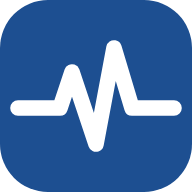
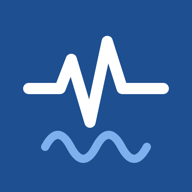
v3.18 · Pulido visual, fase 4: icono de la app, impresión de manuales, infografías y documentación
- Icono de la app: ECG y onda de ventilación sobre azul; PNG de 192 y 512 a sangre (maskable); la marca de la cabecera usa el mismo dibujo.
- Impresión de los manuales: se ocultan migas, índice, huecos de foto y «Siguiente»; teclas y mensajes con borde (antes quedaban en blanco sobre blanco sin fondos); saltos de página cuidados.
- Infografías: filete rojo bajo la cabecera y botones de 44 px en la barra (solo pantalla). Siguen en 1 hoja A4.
- Paneles: transición y estado pulsado en los botones del esquema, sin mover nada.
- CLAUDE.md y README.md: diseño «Panel de guardia», sprite de iconos, reglas de CSS e impresión.
- Comprobado: 9 casos, 33 rutas sin scroll horizontal a 390 px, consola limpia, infografías en 1 hoja y checklist en 2.

diff --git a/assets/css/app.css b/assets/css/app.css
@@ -165,7 +165,9 @@ kbd{font-family:var(--head);font-weight:700;font-size:.9em;background:var(--navy
 .fig text.sm{font-size:12px;font-weight:600;fill:var(--ink2)}
 .fig text.pd{fill:var(--red);font-size:16px}
 .dot{display:inline-block;width:12px;height:12px;border-radius:50%;border:1.5px solid var(--ink);vertical-align:-1px;margin-right:5px}
-.manual h3{margin-top:16px}
+.manual h3{margin-top:22px}
+.card.manual>h3:first-child{margin-top:0}
+.card.manual li{margin:6px 0}
 .cl{white-space:nowrap}
 .photo{display:flex;align-items:center;justify-content:center;gap:10px;border:1.5px dashed var(--muted);border-radius:12px;padding:14px;color:var(--muted);font-size:14px;line-height:1.35;margin:12px 0;background:var(--surface)}
 .photo .ic{width:24px;height:24px}
@@ -182,7 +184,10 @@ p.pill{display:block;width:fit-content;max-width:100%;font-family:Barlow,system-
 .panelsvg .hot{cursor:pointer}
 .a4{position:relative;width:100%;aspect-ratio:210/297;overflow:hidden;border-radius:6px;background:#fff}
 .a4 iframe{position:absolute;top:0;left:0;width:794px;height:1123px;border:0;transform-origin:0 0}
-.panelsvg{color:var(--muted)}
+.panelsvg{color:var(--muted);text-rendering:geometricPrecision}
+.panelsvg .hs{transition:stroke .12s,stroke-width .12s}
+.panelsvg .hot:active .hs{stroke:var(--orange);stroke-width:5}
+.pscroll{border-radius:8px}
 .panelsvg .hot:hover .hs,.panelsvg .hot.sel .hs,.panelsvg .hot:focus-visible .hs{stroke:var(--orange);stroke-width:5}
 .panelsvg .hot:focus{outline:none}
 .pscroll{overflow-x:auto;-webkit-overflow-scrolling:touch}
@@ -346,7 +351,7 @@ p.pill{display:block;width:fit-content;max-width:100%;font-family:Barlow,system-
 .embed{position:relative;padding-top:56.25%;border-radius:10px;overflow:hidden;background:#000;margin:12px 0 0}
 .embed iframe{position:absolute;inset:0;width:100%;height:100%;border:0}
 
-footer{border-top:1px solid var(--line);margin-top:40px;padding:18px 16px 40px;color:var(--muted);font-size:14px}
+footer{border-top:1px solid var(--line);margin-top:40px;padding:18px 16px 40px;color:var(--muted);font-size:14px;line-height:1.45}
 footer .in{max-width:1180px;margin:0 auto}
 .offline{position:fixed;bottom:12px;left:50%;transform:translateX(-50%);background:var(--navy);color:#fff;padding:8px 14px;border-radius:10px;font-size:14px;z-index:40;display:none}
 /* Checklist */
@@ -370,7 +375,14 @@ details.help summary::before{content:'';flex:none;width:8px;height:8px;border-ri
 .ck2{display:grid;grid-template-columns:repeat(auto-fit,minmax(300px,1fr));gap:0 16px}
 @media (max-width:560px){.ckt{font-size:14px}.ckt .fx{width:38%}.ckt .n{width:30px}.cksheet{padding:12px}}
 @page{size:A4;margin:10mm 11mm}
-@media print{.top,.tabs,footer,.btn,.noprint,.offline,.cklink{display:none!important}body{background:#fff;font-size:10pt}.card{box-shadow:none}
+@media print{.top,.tabs,footer,.btn,.noprint,.offline,.cklink,.crumbs,.toc,.photo,.next{display:none!important}body{background:#fff;color:#000;font-size:10pt}.card{box-shadow:none}
+  /* sin fondos al imprimir: teclas y mensajes con borde, para que no queden en blanco sobre blanco */
+  kbd{background:none!important;color:#000!important;border:.25mm solid #000;padding:0 1.2mm}.msg{background:none!important;color:#000!important;border:.25mm solid #666;padding:0 1.2mm}
+  .manual h2{break-after:avoid;margin-top:5mm;padding-top:2mm}.manual h3{break-after:avoid}.manual tr,.manual li,.key,.fig{break-inside:avoid}
+  .manual table{box-shadow:none;border:.25mm solid #999;border-style:solid}.manual th,.manual td{border-bottom:.25mm solid #999}.manual th{color:#000}
+  .key{border:.25mm solid #999;border-left:1.2mm solid #666;background:none}.pill{border:.25mm solid #999;background:none;color:#000}
+  .info,.qres{position:static;box-shadow:none}a{color:#000}
+  .lead{font-size:11pt}.manual tr:first-child{break-after:avoid}.mod-n{color:#000}
   main{padding:0!important;max-width:none!important}.cksheet{border:0;padding:0}.cksheet h1{font-size:19pt;margin:0 0 3mm}.cksheet h2{font-size:14pt;margin:4mm 0 1.5mm;break-after:avoid}
   .ck2{display:block}.ckf{grid-template-columns:1fr 1fr;gap:2mm 6mm;font-size:10.5pt}
   .ckt{font-size:9.4pt;line-height:1.24}.ckt th,.ckt td{padding:1.1mm 2mm}.ckf.obs span{min-height:4.5em}.cksheet .src{font-size:8.4pt;margin:0 0 1.5mm}.cksheet .key{padding:1.5mm 3mm;margin:2mm 0;font-size:9pt}

diff --git a/assets/css/infografia.css b/assets/css/infografia.css
@@ -6,13 +6,15 @@
 :root{--ink:#0E1A2B;--muted:#4A5868;--teal:#1D4F91;--line:#C9D3DC}
 *{box-sizing:border-box}
 html,body{margin:0;background:#D9DEE3;color:var(--ink);font-family:Barlow,system-ui,sans-serif;-webkit-print-color-adjust:exact;print-color-adjust:exact}
-.bar{display:flex;gap:10px;justify-content:center;padding:10px}
-.bar button,.bar a{font:700 15px Barlow,sans-serif;border:0;border-radius:10px;padding:9px 16px;background:var(--teal);color:#fff;text-decoration:none;cursor:pointer}
+.bar{display:flex;flex-wrap:wrap;gap:10px;justify-content:center;padding:10px}
+.bar button,.bar a{display:inline-flex;align-items:center;justify-content:center;min-height:44px;font:700 16px Barlow,sans-serif;border:0;border-radius:12px;padding:9px 18px;background:var(--teal);color:#fff;text-decoration:none;cursor:pointer}
+.bar button:focus-visible,.bar a:focus-visible{outline:3px solid #D2401C;outline-offset:2px}
 .bar a{background:#fff;color:var(--teal);border:2px solid var(--teal)}
 .wrap{max-width:calc(100% - 12px);width:210mm;margin:0 auto 16px;overflow:hidden}
 .page{position:relative;width:210mm;height:297mm;margin:0;background:#fff;padding:8mm 7mm 7mm;display:flex;flex-direction:column;box-shadow:0 2px 12px rgba(0,0,0,.18);overflow:hidden}
 header h1{font:700 21pt/1 'Barlow Semi Condensed',Barlow,sans-serif;margin:0 0 1.5mm;color:var(--teal)}
-header p{margin:0 0 3mm;font-size:8.6pt;color:var(--muted)}
+header{border-bottom:.5mm solid #D2401C;margin-bottom:2.5mm}
+header p{margin:0 0 1.6mm;font-size:8.6pt;color:var(--muted)}
 .stage{flex:1;display:grid;grid-template-columns:49mm 1fr 49mm;gap:5mm;min-height:0}
 .col{display:flex;flex-direction:column;justify-content:space-around;gap:1.6mm}
 .mid{display:flex;align-items:center}

diff --git a/index.html b/index.html
@@ -49,7 +49,7 @@
  </defs>
 </svg>
 <header class="top"><div class="in">
-  <a class="brand" href="#/"><svg width="30" height="30" viewBox="0 0 32 32" aria-hidden="true"><rect width="32" height="32" rx="8" fill="#1D4F91"/><path d="M3 18h7l2-6 4 12 3-16 3 10h7" fill="none" stroke="#fff" stroke-width="2.6" stroke-linecap="round" stroke-linejoin="round"/></svg><span>LP12 · SAVe II+</span></a>
+  <a class="brand" href="#/"><svg width="32" height="32" viewBox="0 0 512 512" aria-hidden="true"><rect width="512" height="512" rx="112" fill="#1D4F91"/><path d="M76 236h84l30-78 50 168 46-216 40 126h110" fill="none" stroke="#fff" stroke-width="34" stroke-linecap="round" stroke-linejoin="round"/><path d="M120 392q34-64 68 0t68 0 68 0 68 0" fill="none" stroke="#7FB0EE" stroke-width="26" stroke-linecap="round" stroke-linejoin="round"/></svg><span>LP12 · SAVe II+</span></a>
   <nav class="nav" aria-label="Principal">
     <a href="#/" data-r="home"><svg class="ic"><use href="#i-home"/></svg><span class="full">Inicio</span><span class="short" aria-hidden="true">Inicio</span></a>
     <a href="#/m/lp12" data-r="lp12"><svg class="ic"><use href="#i-lp12"/></svg><span class="full">1 · LIFEPAK 12</span><span class="short" aria-hidden="true">LIFEPAK</span></a>

diff --git a/sw.js b/sw.js
@@ -1,5 +1,5 @@
 /* Caché para uso sin conexión. Sube VERSION al publicar cambios. */
-const VERSION='v3.17-2026-10-03';
+const VERSION='v3.18-2026-10-03';
 const CORE=['./','index.html','manifest.webmanifest','assets/css/app.css','assets/js/content.js','assets/js/panel.js','assets/js/cases.js','assets/js/sim.js','assets/js/app.js',
 'content/manual-lp12.html','content/manual-save.html','content/manual-integracion.html',
 'assets/fonts/barlow-latin-400-normal.woff2','assets/fonts/barlow-latin-400-italic.woff2','assets/fonts/barlow-latin-600-normal.woff2','assets/fonts/barlow-latin-700-normal.woff2','assets/fonts/barlow-semi-condensed-latin-600-normal.woff2','assets/fonts/barlow-semi-condensed-latin-700-normal.woff2',

diff --git a/CLAUDE.md b/CLAUDE.md
@@ -34,8 +34,8 @@ Contenido:
 ## Estructura
 
 ```
-index.html                   Shell: cabecera, navegación y carga de los scripts
-assets/css/app.css           Estilos (tokens en :root, modo oscuro). Paleta B elegida por el autor: azul marino #1D4F91 (primario, token --teal) y rojo #D2401C (acento, --orange). Sin logo de Bomberos UCV hasta confirmar el permiso
+index.html                   Shell: cabecera, navegación, sprite de iconos SVG propios (<symbol id="i-…">) y carga de los scripts
+assets/css/app.css           Estilos (tokens en :root, modo oscuro). Paleta B elegida por el autor: azul marino #1D4F91 (primario, token --teal) y rojo #D2401C (acento, --orange). Sin logo de Bomberos UCV hasta confirmar el permiso. Diseño «Panel de guardia» (ver más abajo)
 assets/js/content.js         MODS (módulos, enlaces de Loom), SAVE_HEIGHTS (alturas del SAVe), PANELS (panel interactivo), QUIZ, VIDEOS, PHOTOS
 assets/js/panel.js           drawPanel(): dibuja los esquemas SVG de PANELS (panel interactivo e infografías)
 assets/js/cases.js           CASES: los 9 casos (texto, opciones, check(S), react(ev,S,c), debrief)
@@ -68,11 +68,24 @@ Probar en local: `python3 -m http.server 8765` y abrir `http://localhost:8765`. 
 6. **Sin YouTube incrustado sin revisar:** en `VIDEOS`, `{t, yt:'ID', fuente}` solo para vídeos que el autor haya revisado. Mientras no los haya, se usan enlaces de búsqueda.
 7. Los enlaces de Loom van en `MODS[].loom.url` (enlace *share*).
 
+## Diseño «Panel de guardia» (elegido por el autor el 03-10-2026, v3.15-v3.18)
+
+- **Celular:** la navegación es una barra inferior fija con 7 iconos (`.nav` a menos de 760 px; su alto está en `--nav-h`, que también usan `main`, el pie, la ficha del panel y el resultado del test). En escritorio va arriba.
+- **Iconos:** nada de emoji en la interfaz. Se usan los símbolos del sprite de `index.html`: `<svg class="ic"><use href="#i-nombre"/></svg>` (en `sim.js`, con `IC('nombre')`). Para un icono nuevo, añadir un `<symbol>` monolínea de 24×24.
+- **Objetivos táctiles:** 44 px como mínimo. Excepción aceptada a 390 px: las flechas ▼▲ del LIFEPAK virtual (40 px de ancho) y los − + del SAVe virtual (37 px), para no mover la disposición real.
+- **Contraste:** AA medido en claro y oscuro para todos los pares de tokens. Si se toca un color, volver a medirlo.
+- **Orden del CSS:** las reglas `@media` de un componente van **después** de sus reglas base (un bloque del monitor estuvo sin aplicarse por ir antes).
+- **Impresión:** infografías en 1 hoja A4 cada una y checklist en 2. En `@media print`, las teclas (`kbd`) y los mensajes (`.msg`) van con borde y sin fondo.
+- **Textos de los huecos:** «Foto de … de su unidad: pendiente» y «Vídeo pendiente de publicar»; la ruta del archivo va en un comentario HTML.
+- **Icono de la app:** ECG y onda de ventilación sobre azul (`assets/img/icon.svg`; los PNG de 192 y 512 van a sangre y valen como *maskable*).
+- **Caché del navegador al probar en local:** `python3 -m http.server` deja recursos en caché; antes de comprobar, recargar con `fetch(url,{cache:'reload'})` o abrir con `?v=n`.
+
 ## Checklist antes de cada publicación
 
 - [ ] La consola no muestra errores en todas las rutas (`#/`, los 3 módulos con todas sus pestañas, `#/casos`, cada `#/caso/<id>` y `#/acerca`).
 - [ ] Los 9 casos se completan sin bloqueos.
 - [ ] Sin scroll horizontal a 390 px. El modo oscuro se lee bien.
+- [ ] Infografías en 1 hoja y checklist en 2 (PDF con Chrome sin interfaz).
 - [ ] `VERSION` de `sw.js` incrementada.
 - [ ] Si cambió contenido clínico, el autor lo ha revisado.
 
@@ -105,6 +118,7 @@ En la carpeta privada `~/Desktop/Formacion_Bomberos_UCV_LP12_SAVe/` hay 3 fotos 
 ## Estado (03-10-2026)
 
 - v3 publicada en GitHub Pages (https://hipolitogarciam.github.io/formacion-bomberos-ucv/):
+  - pulido visual «Panel de guardia» en 4 fases (v3.15-v3.18): navegación inferior, iconos SVG, tablas, simulador, icono de la app e impresión de manuales;
   - tratamiento de "ustedes", navegación con «Siguiente», paneles y simulador con la disposición real, infografías A4 en HTML, checklist de inicio de guardia, paleta B;
   - auditoría independiente (`AUDITORIA_v3.md`) con todos sus hallazgos corregidos;
   - contenido de reanimación revisado frente a las guías ERC 2025 (`REVISION_ERC2025.md`, 33 temas, todo aplicado; v3.14). Corregido también un dato del LP12: energías del DEA 150-360 J [9-6], no 100-360 J;

diff --git a/README.md b/README.md
@@ -29,6 +29,8 @@ Web estática de formación asíncrona, pensada para publicarse en **GitHub Page
 | Fotos reales de los equipos | `assets/img/fotos/` (ver `LEEME.md`) y añadan el nombre a `window.PHOTOS` |
 | Manuales | `content/*.html` |
 | Checklist de inicio de guardia | `assets/js/app.js` → `CK` |
+| Iconos de la interfaz | `index.html` → sprite SVG (`<symbol id="i-…">`); se usan con `<svg class="ic"><use href="#i-…"/></svg>` |
+| Icono de la app | `assets/img/icon.svg` y los PNG de 192 y 512 px |
 | Infografías | `assets/docs/infografia-*.html`: las del LP12 y el SAVe se dibujan con el panel de `PANELS` (`assets/js/infografia.js`); la de integración es HTML propio |
 
 **Tras cualquier cambio**, suban `VERSION` en `sw.js`. Si no, los celulares seguirán mostrando la copia guardada.
